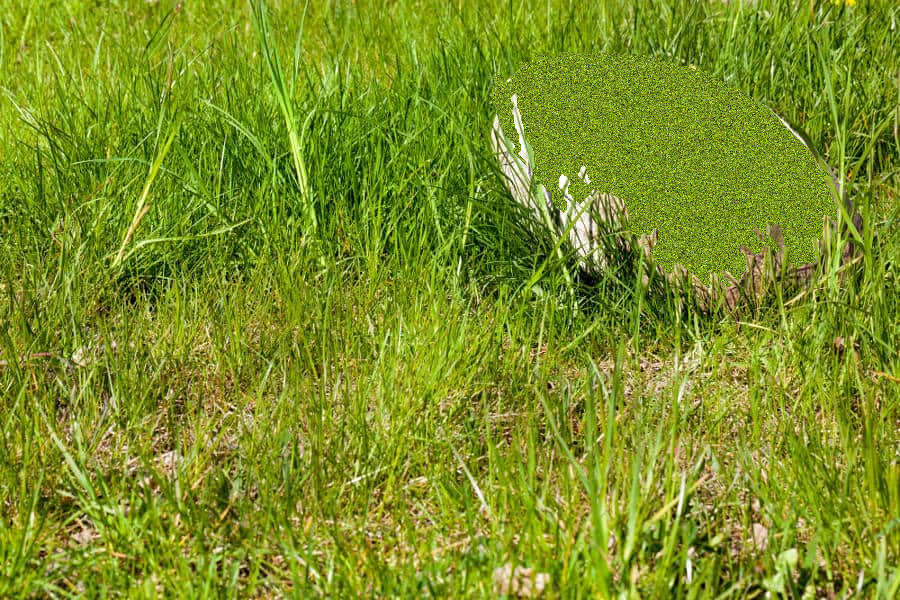
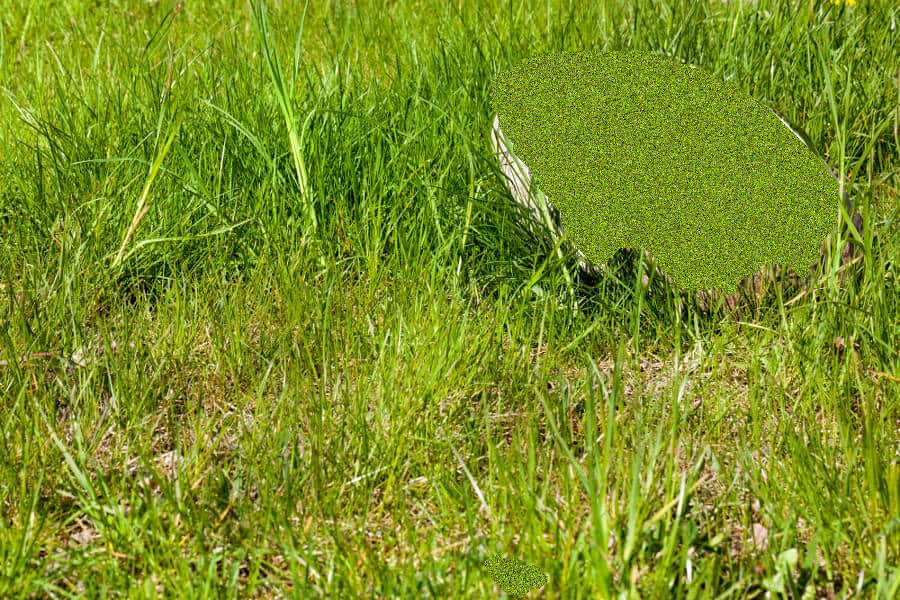
new examples, small tuning

Changed region(s): [[0.5289, 0.06, 0.9333, 0.51], [0.5289, 0.93, 0.6222, 1.0]]

diff --git a/src/ImageProcessing.Core/Services/ImageProcessingService.cs b/src/ImageProcessing.Core/Services/ImageProcessingService.cs
@@ -647,7 +647,7 @@ public class ImageProcessingService : IImageProcessingService
         var valueDist = new NormalDistribution(valueMean, valueStd);
 
 
-        predicate = p => p.IsWithinBounds(new PixelHsv(0, 0f, 0), new PixelHsv(60, 0.5f, 1)) ||
+        predicate = p => p.IsWithinBounds(new PixelHsv(0, 0f, 0), new PixelHsv(65, 0.6f, 1)) ||
                                      p.IsWithinBounds(new PixelHsv(200, 0f, 0), new PixelHsv(360, 0.5f, 1));
 
         MarkPixels(hsv, predicate);
